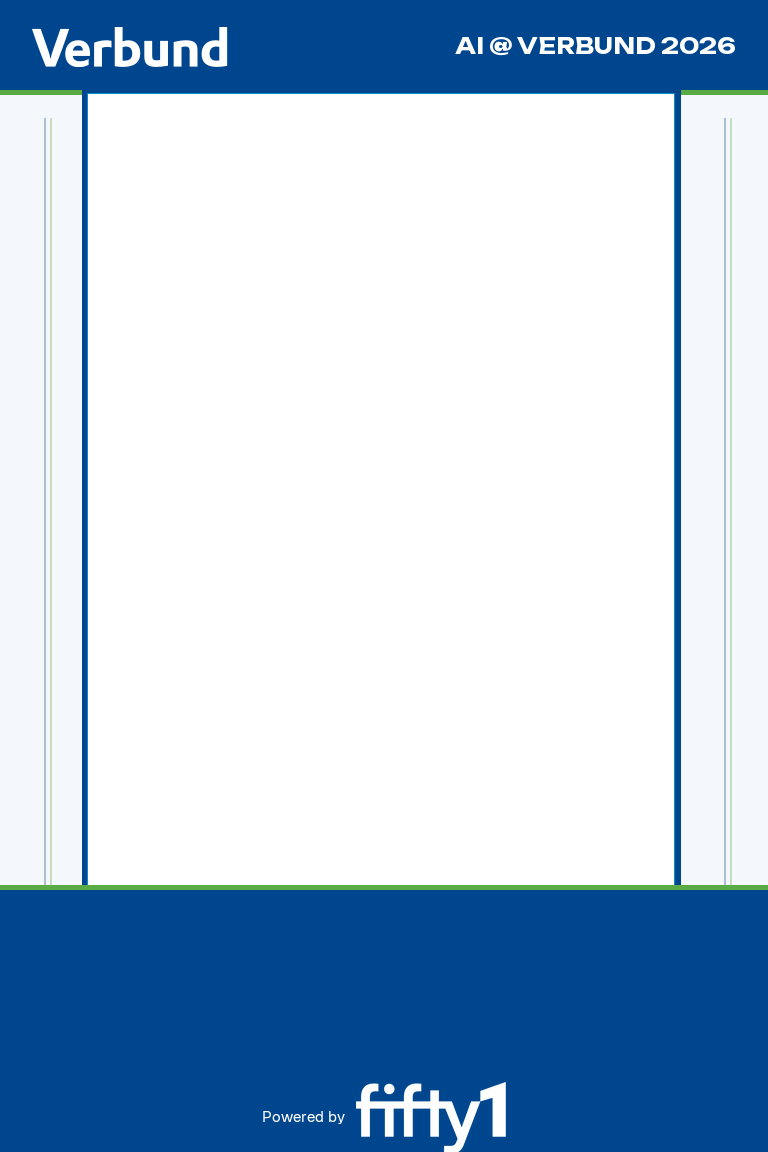
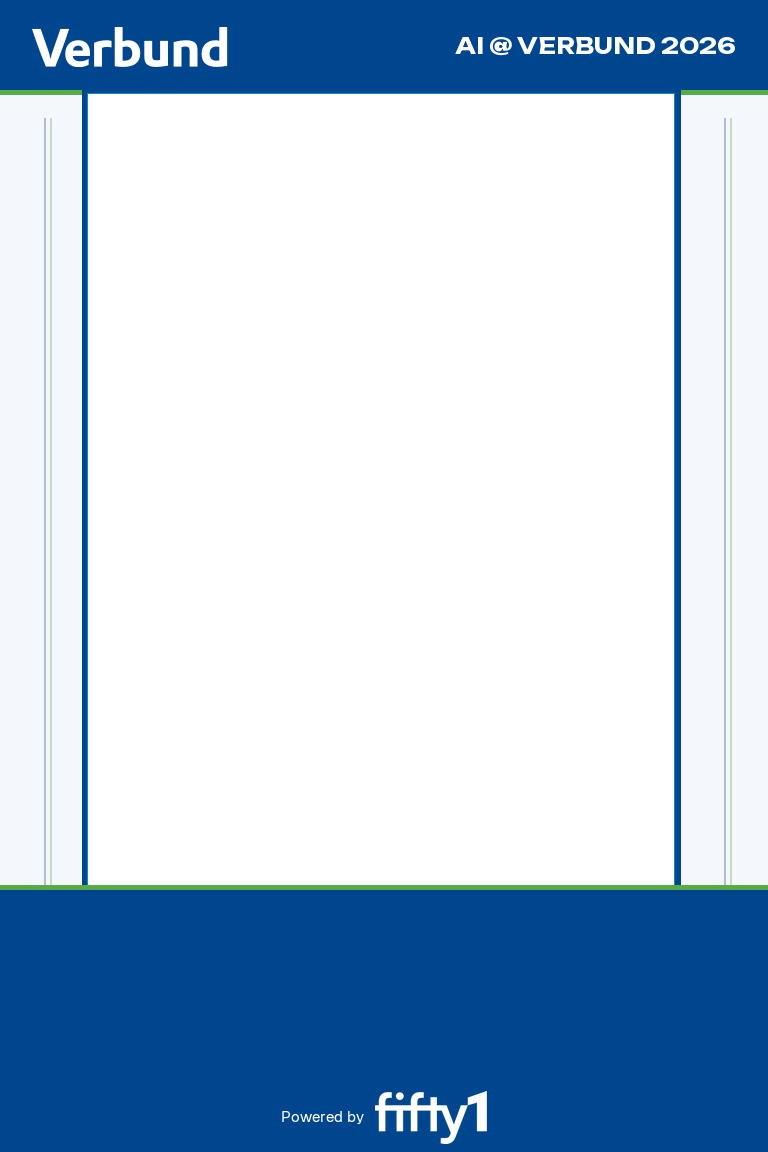
029-verbund-rebrand: visual polish follow-ups (hover, title, font, frame, prompts)
Post-review fixes on top of the Verbund rebrand:

- Buttons: dedicated --color-bg-hover token (rgba(0,70,142,0.06)) so hover
  is visible on the light ground (was near-invisible 4% glass); generic
  button:hover now forces dark legible text; Generate/Keep/Shutter labels
  kept readable on their filled backgrounds.
- Title: "Verbund" -> "VERBUND" (h1, footer, <title>, tests); loosened
  line-height + padding so the background-clip:text box no longer crops
  glyphs, subtitle negative margin reset.
- Font: swapped body+display to Roboto (free Univers-family stand-in for
  verbund.com's licensed Linotype Univers); Google-Fonts import + tokens.
- Poster frame: fifty1 footer logo -25% (target_w 150 -> 112) for clearance
  from the text overlay; regenerated, cutout geometry unchanged; pre-shrink
  asset backed up to branding-src/poster-frame.verbund-backup.png.
- Prompts: Gemini + fal.ai steer generated images toward a bright/high-key
  background (was trending dark, clashing with the bright frame); softened
  "dramatic" -> "bright" rim lighting; byte-pinned fixture updated.

Recorded as-built detail in specs/029-verbund-rebrand/post-execution-log.md.
Verified: GeminiPromptBuilderTest, PosterFrame* ITs, App/AlterEgoPage tests,
tsc --noEmit all green.

Changed region(s): [[0.375, 0.9375, 0.6562, 1.0]]

diff --git a/frontend/src/index.css b/frontend/src/index.css
@@ -2,8 +2,8 @@
  * 005 cinematic overhaul — "emergence / portal" aesthetic.
  *
  * Dark atmospheric base (tokens.css) + aurora gradient + SVG grain
- * overlay + Unbounded/Geist typography. The page reads as a portal
- * where the user's alter ego emerges, not as a form.
+ * overlay + Roboto typography (Verbund/Univers-family). The page reads
+ * as a portal where the user's alter ego emerges, not as a form.
  *
  * Animation strategy: one well-orchestrated mount sequence (title →
  * tabs → photo → numbered groups → Generate) plus the generation
@@ -68,8 +68,12 @@ button:disabled {
 }
 
 button:not(:disabled):hover {
-  border-color: var(--color-border-strong);
-  background: var(--color-bg-glass);
+  border-color: var(--color-border-glow);
+  background: var(--color-bg-hover);
+  /* Force a dark, legible label on the tinted hover fill — some buttons
+     rest with a muted/light/accent text colour that would otherwise wash
+     out against --color-bg-hover. */
+  color: var(--color-text);
 }
 
 [role='radio'][aria-checked='true'],
@@ -249,7 +253,7 @@ legend {
   font-size: clamp(14px, 1.6vw, 18px);
   font-weight: 400;
   color: var(--color-text-muted);
-  margin-top: calc(var(--space-4) * -1 + 2px);
+  margin-top: 0;
   margin-bottom: var(--space-7);
   max-width: 60ch;
   opacity: 0;
@@ -290,7 +294,11 @@ legend {
   font-weight: 700;
   font-size: clamp(32px, 4vw, 58px);
   letter-spacing: var(--tracking-display);
-  line-height: 0.98;
+  /* Roboto sits taller than the previous display face; keep a little more
+     line-height + bottom padding so the background-clip:text box doesn't
+     crop glyph bottoms and the title clears the subtitle below. */
+  line-height: 1.08;
+  padding-bottom: 4px;
   margin-bottom: var(--space-6);
   /* Three-stop gradient sliding across 12s so the headline lives
      without distracting. Fallback solid colour for older browsers. */
@@ -379,7 +387,7 @@ legend {
 
 .tabs-shell__tab:hover:not([disabled]) {
   color: var(--color-text);
-  background: var(--color-bg-glass);
+  background: var(--color-bg-hover);
 }
 
 .tabs-shell__tab.is-active {
@@ -610,8 +618,8 @@ legend {
 
 .selection-grid__option:not(:disabled):hover {
   color: var(--color-text);
-  border-color: var(--color-border-strong);
-  background: var(--color-bg-glass);
+  border-color: var(--color-border-glow);
+  background: var(--color-bg-hover);
 }
 
 .selection-grid__option[data-selected='true'] {
@@ -979,6 +987,7 @@ legend {
 }
 
 .generate-button > button:not(:disabled):hover {
+  color: var(--color-text);
   transform: translateY(-1px);
   box-shadow:
     var(--shadow-glow-pink),
@@ -1265,6 +1274,16 @@ legend {
   transform: translateY(-1px) scale(1.02);
 }
 
+/* Preserve each filled button's own label colour on hover — the generic
+   button:hover rule forces a dark label, which would wash out the white
+   text on these coloured fills. */
+.photo-intake__shutter:not(:disabled):hover {
+  color: #05080f;
+}
+.photo-intake__keep:not(:disabled):hover {
+  color: var(--color-text);
+}
+
 .photo-intake__shutter:not(:disabled):active,
 .photo-intake__keep:not(:disabled):active {
   transform: scale(0.96);
@@ -1300,7 +1319,7 @@ legend {
 .photo-intake__cancel:hover {
   color: var(--color-text);
   border-color: var(--color-accent-cyan);
-  background: var(--color-bg-glass);
+  background: var(--color-bg-hover);
 }
 
 .photo-intake__clear {
@@ -1681,7 +1700,7 @@ legend {
 .start-over-button:hover {
   color: var(--color-text);
   border-color: var(--color-accent-cyan);
-  background: var(--color-bg-glass);
+  background: var(--color-bg-hover);
 }
 
 /* === 011 — Photo Mode toggle (single sliding-thumb switch) ======== */
@@ -1738,8 +1757,8 @@ legend {
 }
 
 .photo-mode-switch__control:hover {
-  border-color: var(--color-border-strong);
-  background: rgba(255, 255, 255, 0.06);
+  border-color: var(--color-border-glow);
+  background: var(--color-bg-hover);
 }
 
 .photo-mode-switch__track {
@@ -1855,7 +1874,7 @@ legend {
 .print-button:hover {
   color: var(--color-text);
   border-color: var(--color-accent-cyan);
-  background: var(--color-bg-glass);
+  background: var(--color-bg-hover);
 }
 
 /* 023 (issue #57) — Send As Email button. Mirrors .print-button's visual
@@ -1885,7 +1904,7 @@ legend {
 .send-as-email-button:hover:not(:disabled) {
   color: var(--color-text);
   border-color: var(--color-accent-cyan);
-  background: var(--color-bg-glass);
+  background: var(--color-bg-hover);
 }
 
 .send-as-email-button:disabled,

diff --git a/frontend/src/styles/tokens.css b/frontend/src/styles/tokens.css
@@ -19,6 +19,11 @@
   --color-bg-elevated: #ffffff;
   --color-bg-overlay: #eaf1f8;
   --color-bg-glass: rgba(0, 70, 142, 0.04);
+  /* Hover fill — a clearly visible VERBUND-blau tint. --color-bg-glass (4%)
+     is nearly invisible on the light ground, so buttons "disappeared" on
+     hover; this dedicated token gives every button a legible hover state
+     without disturbing the resting glass surfaces that still use -glass. */
+  --color-bg-hover: rgba(0, 70, 142, 0.06);
   --color-border: rgba(0, 70, 142, 0.14);
   --color-border-strong: rgba(0, 70, 142, 0.26);
   --color-border-glow: rgba(0, 70, 142, 0.4);
@@ -60,14 +65,14 @@
   --color-warning: #e2a12b;
   --color-error: #d4573b;
 
-  /* Type — Unbounded (display, geometric) / Geist (body, refined sans) /
-     Geist Mono (meta). Retained from the previous theme: a clean geometric
-     display paired with a corporate sans reads as professional on the
-     Verbund light ground. */
-  --font-display:
-    'Unbounded', 'Space Grotesk', system-ui, -apple-system, BlinkMacSystemFont, sans-serif;
-  --font-body: 'Geist', system-ui, -apple-system, BlinkMacSystemFont, 'Segoe UI', sans-serif;
-  --font-mono: 'Geist Mono', 'JetBrains Mono', 'Fira Code', 'SF Mono', Menlo, Consolas, monospace;
+  /* Type — Roboto (body + display) to match verbund.com's corporate look.
+     The Verbund site uses Linotype Univers (a licensed Monotype grotesque);
+     Roboto is the closest freely-distributable, Google-Fonts-hosted stand-in
+     — a neutral grotesque with the same even, corporate rhythm. Applied to
+     both body and display so the whole UI reads as Univers-family. */
+  --font-display: 'Roboto', 'Arial', system-ui, -apple-system, BlinkMacSystemFont, sans-serif;
+  --font-body: 'Roboto', 'Arial', system-ui, -apple-system, BlinkMacSystemFont, 'Segoe UI', sans-serif;
+  --font-mono: 'Roboto Mono', 'JetBrains Mono', 'Fira Code', 'SF Mono', Menlo, Consolas, monospace;
 
   /* Letter-spacing scale — tighter on display, looser on small labels. */
   --tracking-display: -0.03em;

diff --git a/frontend/index.html b/frontend/index.html
@@ -7,10 +7,10 @@
     <link rel="preconnect" href="https://fonts.googleapis.com" />
     <link rel="preconnect" href="https://fonts.gstatic.com" crossorigin />
     <link
-      href="https://fonts.googleapis.com/css2?family=Unbounded:wght@300;400;500;600;700;800&family=Geist:wght@300;400;500;600;700&family=Geist+Mono:wght@400;500&display=swap"
+      href="https://fonts.googleapis.com/css2?family=Roboto:wght@300;400;500;700;900&family=Roboto+Mono:wght@400;500&display=swap"
       rel="stylesheet"
     />
-    <title>AI @ Verbund 2026</title>
+    <title>AI @ VERBUND 2026</title>
   </head>
   <body>
     <div id="root"></div>

diff --git a/frontend/src/features/alterego/AlterEgoPage.test.tsx b/frontend/src/features/alterego/AlterEgoPage.test.tsx
@@ -160,7 +160,7 @@ describe('AlterEgoPage', () => {
   test('renders the form on mount with Generate disabled', () => {
     render(<AlterEgoPage />, { wrapper })
     expect(
-      screen.getByRole('heading', { name: /AI @ Verbund 2026/i, level: 1 }),
+      screen.getByRole('heading', { name: /AI @ VERBUND 2026/i, level: 1 }),
     ).toBeInTheDocument()
     expect(screen.getByRole('button', { name: /take a photo of yourself/i })).toBeInTheDocument()
     expect(screen.getByRole('button', { name: /generate my alter ego/i })).toBeDisabled()

diff --git a/frontend/src/features/alterego/AlterEgoPage.tsx b/frontend/src/features/alterego/AlterEgoPage.tsx
@@ -117,7 +117,7 @@ function AlterEgoPageContent() {
   return (
     <main className="alter-ego-page">
       <BrandHeader />
-      <h1 className="alter-ego-page__title">AI @ Verbund 2026</h1>
+      <h1 className="alter-ego-page__title">AI @ VERBUND 2026</h1>
       <p className="alter-ego-page__subtitle">
         Discover your AI alter ego — powering the energy transformation.
       </p>

diff --git a/frontend/src/App.test.tsx b/frontend/src/App.test.tsx
@@ -23,7 +23,7 @@ describe('App', () => {
       </QueryClientProvider>,
     )
     expect(
-      screen.getByRole('heading', { name: /AI @ Verbund 2026/i, level: 1 }),
+      screen.getByRole('heading', { name: /AI @ VERBUND 2026/i, level: 1 }),
     ).toBeInTheDocument()
     expect(screen.getByRole('button', { name: /take a photo of yourself/i })).toBeInTheDocument()
   })

diff --git a/frontend/src/App.tsx b/frontend/src/App.tsx
@@ -16,7 +16,7 @@ function App() {
       </div>
       <AlterEgoPage />
       <footer className="site-footer">
-        <span>AI @ Verbund 2026</span>
+        <span>AI @ VERBUND 2026</span>
         <span className="site-footer__sep" aria-hidden="true">
           ·
         </span>

diff --git a/backend/src/main/java/com/aiavatar/alterego/infrastructure/provider/falai/FalAiPromptBuilder.java b/backend/src/main/java/com/aiavatar/alterego/infrastructure/provider/falai/FalAiPromptBuilder.java
@@ -106,7 +106,8 @@ public class FalAiPromptBuilder {
                 .append("Render the subject as an alter ego with the following attributes:\n\n");
         appendCategoryLines(sb, request);
         sb.append("\nComposition notes:\n");
-        sb.append("- Portrait orientation, 3:4 aspect ratio, dramatic rim lighting.\n");
+        sb.append("- Portrait orientation, 3:4 aspect ratio, bright rim lighting on the subject.\n");
+        sb.append("- Background: bright, clean and airy — a light, luminous setting with an overall high-key palette that leans toward whites, soft blues and cool daylight tones. Avoid dark, murky, black or heavily shadowed backgrounds; the poster frame around this image is bright white and blue, so the scene must feel light and open, not gloomy.\n");
         sb.append("- Clear focus on the subject; the universe aesthetic is the setting, not the subject.\n");
         sb.append("- ABSOLUTELY NO rendered text anywhere in the image: no name plates, no banners, no parchment scrolls, no signs, no captions, no watermarks, no logos, and NO transcribing the engineering-role label. The poster's text overlay is composited downstream — your job is the visual scene only.\n");
         return sb.toString();
@@ -122,7 +123,8 @@ public class FalAiPromptBuilder {
                 .append("Apply the same attributes uniformly to every person:\n\n");
         appendCategoryLines(sb, request);
         sb.append("\nComposition notes:\n");
-        sb.append("- Portrait orientation, 3:4 aspect ratio, dramatic rim lighting.\n");
+        sb.append("- Portrait orientation, 3:4 aspect ratio, bright rim lighting on the subjects.\n");
+        sb.append("- Background: bright, clean and airy — a light, luminous setting with an overall high-key palette that leans toward whites, soft blues and cool daylight tones. Avoid dark, murky, black or heavily shadowed backgrounds; the poster frame around this image is bright white and blue, so the scene must feel light and open, not gloomy.\n");
         sb.append("- Clear focus on all subjects as a group; the universe aesthetic is the setting, not the subjects.\n");
         sb.append("- Arrange the group so every face is clearly visible.\n");
         sb.append("- ABSOLUTELY NO rendered text anywhere in the image: no name plates, no banners, no parchment scrolls, no signs, no captions, no watermarks, no logos, and NO transcribing the engineering-role label. The poster's text overlay is composited downstream — your job is the visual scene only.\n");

diff --git a/backend/src/main/java/com/aiavatar/alterego/infrastructure/provider/gemini/GeminiPromptBuilder.java b/backend/src/main/java/com/aiavatar/alterego/infrastructure/provider/gemini/GeminiPromptBuilder.java
@@ -110,7 +110,8 @@ public class GeminiPromptBuilder {
                 .append("with the following attributes:\n\n");
         appendCategoryLines(sb, request);
         sb.append("\nComposition notes:\n");
-        sb.append("- Portrait orientation, 3:4 aspect ratio, dramatic rim lighting.\n");
+        sb.append("- Portrait orientation, 3:4 aspect ratio, bright rim lighting on the subject.\n");
+        sb.append("- Background: bright, clean and airy — a light, luminous setting with an overall high-key palette that leans toward whites, soft blues and cool daylight tones. Avoid dark, murky, black or heavily shadowed backgrounds; the poster frame around this image is bright white and blue, so the scene must feel light and open, not gloomy.\n");
         sb.append("- Clear focus on the subject; the universe aesthetic is the setting, not the subject.\n");
         sb.append("- ABSOLUTELY NO rendered text anywhere in the image: no name plates, no banners, no parchment scrolls, no signs, no captions, no watermarks, no logos, and NO transcribing the engineering-role label. The poster's text overlay is composited downstream — your job is the visual scene only.\n");
         return sb.toString();
@@ -126,7 +127,8 @@ public class GeminiPromptBuilder {
                 .append("Apply the same attributes uniformly to every person:\n\n");
         appendCategoryLines(sb, request);
         sb.append("\nComposition notes:\n");
-        sb.append("- Portrait orientation, 3:4 aspect ratio, dramatic rim lighting.\n");
+        sb.append("- Portrait orientation, 3:4 aspect ratio, bright rim lighting on the subjects.\n");
+        sb.append("- Background: bright, clean and airy — a light, luminous setting with an overall high-key palette that leans toward whites, soft blues and cool daylight tones. Avoid dark, murky, black or heavily shadowed backgrounds; the poster frame around this image is bright white and blue, so the scene must feel light and open, not gloomy.\n");
         sb.append("- Clear focus on all subjects as a group; the universe aesthetic is the setting, not the subjects.\n");
         sb.append("- Arrange the group so every face is clearly visible.\n");
         sb.append("- ABSOLUTELY NO rendered text anywhere in the image: no name plates, no banners, no parchment scrolls, no signs, no captions, no watermarks, no logos, and NO transcribing the engineering-role label. The poster's text overlay is composited downstream — your job is the visual scene only.\n");

diff --git a/backend/src/test/java/com/aiavatar/alterego/unit/gemini/GeminiPromptBuilderTest.java b/backend/src/test/java/com/aiavatar/alterego/unit/gemini/GeminiPromptBuilderTest.java
@@ -399,7 +399,8 @@ class GeminiPromptBuilderTest {
                 - Vibe / tone: rebellious
 
                 Composition notes:
-                - Portrait orientation, 3:4 aspect ratio, dramatic rim lighting.
+                - Portrait orientation, 3:4 aspect ratio, bright rim lighting on the subject.
+                - Background: bright, clean and airy — a light, luminous setting with an overall high-key palette that leans toward whites, soft blues and cool daylight tones. Avoid dark, murky, black or heavily shadowed backgrounds; the poster frame around this image is bright white and blue, so the scene must feel light and open, not gloomy.
                 - Clear focus on the subject; the universe aesthetic is the setting, not the subject.
                 - ABSOLUTELY NO rendered text anywhere in the image: no name plates, no banners, no parchment scrolls, no signs, no captions, no watermarks, no logos, and NO transcribing the engineering-role label. The poster's text overlay is composited downstream — your job is the visual scene only.
                 """;

diff --git a/backend/src/main/resources/branding/generate_poster_frame.py b/backend/src/main/resources/branding/generate_poster_frame.py
@@ -145,7 +145,9 @@ def main():
     # fifty1 wordmark, white, centred in the very bottom margin (below the
     # text-overlay safe area so it never collides with name/role/quote).
     fifty1 = Image.open(os.path.join(FRONTEND_BRAND, "fifty1-logo-black.png")).convert("RGBA")
-    target_w = 150
+    # 25% smaller than the original 150px so the footer logo sits further
+    # clear of the 017 name/role/quote text overlay above it.
+    target_w = 112
     scale = target_w / fifty1.width
     fifty1 = fifty1.resize((target_w, int(fifty1.height * scale)), Image.LANCZOS)
     fifty1_white = recolor(fifty1, WHITE[:3])

diff --git a/specs/029-verbund-rebrand/post-execution-log.md b/specs/029-verbund-rebrand/post-execution-log.md
@@ -51,6 +51,41 @@ A brand-only re-skin from SQUER / Code-Crafts → Verbund AG / fifty1 for the ev
 - **Overlay-test comments** still say "SQUER-mark coord" — they refer to the top-left wordmark **coordinate** (structural pixel probe), not brand text; the Verbund wordmark occupies the same spot. Left intentionally.
 - **`frontend/package-lock.json`** shows modified — pre-existing before this branch (present in the initial working tree), unrelated to the rebrand.
 
+## Follow-up polish (2026-09-06, post-review feedback)
+
+After the rebrand landed, a review pass surfaced five visual issues. All fixed in this same branch/PR; no HTTP-contract, mechanics, or persistence change.
+
+### 1. Button hover was invisible → legible blue tint
+- **Cause**: hover fill reused `--color-bg-glass` (`rgba(0,70,142,0.04)`, 4%) — near-invisible on the light ground, so buttons "disappeared" on hover.
+- **Fix**: new dedicated token `--color-bg-hover` in `tokens.css`; every button hover rule in `index.css` repointed to it (generic `button:hover`, tabs, selection grid, photo-intake, photo-mode switch, start-over, print, email), with `--color-border-glow` borders. Tuned to **6%** (`rgba(0,70,142,0.06)`) after "too bright" feedback (started at 10%).
+
+### 2. Hover text washed out on some buttons → forced dark label
+- **Cause**: the generic `button:hover` changed only bg+border, so buttons resting with a muted/accent label kept light text on the tinted fill.
+- **Fix**: generic `button:not(:disabled):hover` now also sets `color: var(--color-text)`. The two filled brand buttons (**Generate**, photo **Keep**) — gradient fill + white label — were per user preference also flipped to dark `var(--color-text)` on hover (their fill stays; dark VERBUND ink reads on it). Photo **Shutter** (cyan fill) keeps its dark `#05080f` label explicitly.
+
+### 3. Title "AI @ VERBUND 2026" — uppercase + clipping
+- **Copy**: `Verbund` → `VERBUND` in `AlterEgoPage.tsx` (h1), `App.tsx` (footer), `index.html` (`<title>`), and the two `/i` test assertions (`App.test.tsx`, `AlterEgoPage.test.tsx`).
+- **Clipping**: after the Roboto swap the `background-clip:text` box cropped glyph bottoms and the subtitle rode up into it. `.alter-ego-page__title` `line-height` `0.98 → 1.08` + `padding-bottom: 4px`; `.alter-ego-page__subtitle` negative `margin-top` (`-14px`, tuned for the old face) reset to `0`.
+
+### 4. App font matched to verbund.com → Roboto
+- verbund.com/de/konzern/strategie uses **Linotype Univers** (licensed Monotype — cannot legally bundle). Chose **Roboto** (free, Google-Fonts-hosted, closest neutral grotesque) for body + display. `index.html` Google-Fonts import swapped (Unbounded/Geist/Geist-Mono → Roboto/Roboto-Mono); `--font-display` / `--font-body` / `--font-mono` in `tokens.css` remapped; stale `index.css` header comment updated.
+
+### 5. Dark generated images clashed with the bright frame → prompt fix
+- **Diagnosis**: the frame's centre is a *transparent* cutout (not black); the generated image shows through, and the prompts ("dramatic rim lighting", no background guidance) trended dark/moody, clashing with the bright blue/white frame. Fix belongs in the **prompts**, not the frame (darkening the frame would fight the rebrand).
+- **Fix**: `GeminiPromptBuilder` + `FalAiPromptBuilder` (single + group, 4 sites) — softened "dramatic rim lighting" → "bright rim lighting" and added a **background** composition note steering to a bright/airy/high-key palette (whites, soft blues, cool daylight) and away from dark/murky/black. Updated the byte-pinned SINGLE fixture in `GeminiPromptBuilderTest`. **Behavioural steer, not a hard guarantee** — affects new generations only.
+
+### Follow-up verification
+| Check | Result |
+|-------|--------|
+| `GeminiPromptBuilderTest` (byte-pinned prompt fixture) | ✅ pass |
+| `PosterFrame*` loader + overlay ITs (regenerated frame) | ✅ pass — cutout geometry & pixel(68,38) unchanged |
+| `App.test.tsx` + `AlterEgoPage.test.tsx` (title copy) | ✅ 6 pass |
+| `tsc --noEmit` | ✅ clean |
+
+### Poster frame — fifty1 logo 25% smaller
+- Footer `fifty1` logo was too large and crowded the text overlay. `generate_poster_frame.py`: `target_w` `150 → 112` px (−25%); frame regenerated. Self-check confirms canvas 768×1152, cutout x=88 y=94 w=586 h=791, pixel(68,38) opaque non-black — all constraints held, no backend code/test change.
+- Pre-shrink Verbund asset backed up → `backend/branding-src/poster-frame.verbund-backup.png` (alongside the older `poster-frame.squer-backup.png`).
+
 ## Regeneration runbook (poster frame)
 
 ```sh
